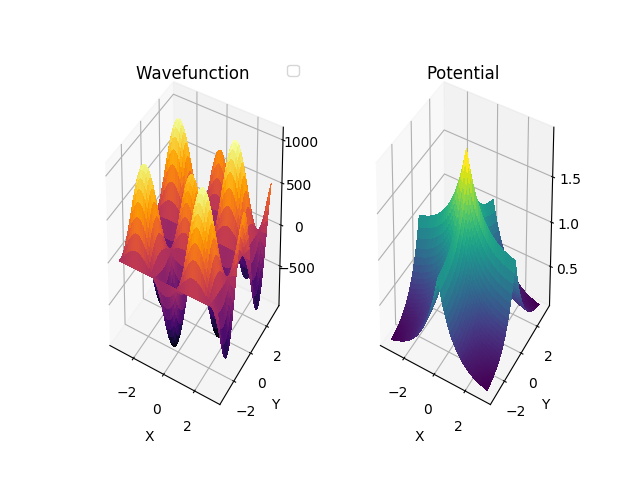
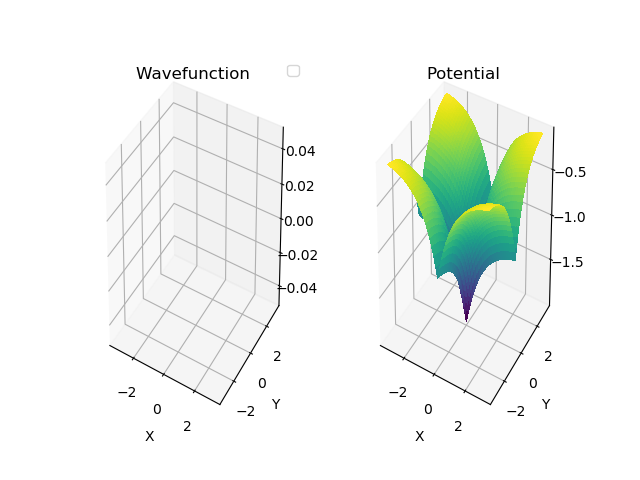
Uses matrix multiplication to solve SE

diff --git a/se.py b/se.py
@@ -9,7 +9,7 @@ h_b = 1
 m = 1
 
 class system():
-    def __init__(self, x, V, psi_0, psi_1, E):
+    def __init__(self, x, V, psi_0, psi_1, E, psi_n):
         '''
         x: array like- eveny sampled position array
         V: array like- potential array
@@ -22,14 +22,14 @@ class system():
         self.E, self.psi_0, self.psi_1 = map(np.float, (E, psi_0, psi_1))
         self.psi = np.array([self.psi_0, self.psi_1])
         self.h = self.x[1] - self.x[0]
-        
-<<<<<<< HEAD
+        self.psi_n = psi_n
+        self.eigen_e = np.array([])
+
     def func(self, V):    
         return 2*m/(h_b**2)*(V-np.ones(self.N)*self.E)
-=======
     def f(self, V):    
         return -2*m/(h_b**2)*(V-np.ones(self.N)*self.E)
->>>>>>> 2d792a8c779709eaacfef5b240db329870d5e941
+
     
     def numerov(self, k): #return k+1 step 
         y_1 = self.psi[-1]
@@ -44,57 +44,77 @@ class system():
         while(k<self.N-2):
             self.psi = np.append(self.psi, [self.numerov(k)], axis=-1)
             k+=1
-        self.psi = self.psi/np.trapz(self.psi**2, dx=self.h)
+        self.psi = self.psi
         return self.psi
 
+    def calc_eigen_e(self):
+        for E in (np.linspace(-self.E,self.E,500)):
+            self.E = E
+            psi_x = self.integrate()
+            if (abs(psi_x[-1])<0.05*self.psi_n): #10% of final wavefunction
+                self.eigen_e = np.append(self.eigen_e, E)
+        return self.eigen_e
 
 def main():
+    
+        #Calculating 
     x = np.linspace(-np.pi, np.pi, 1000)
     y = np.linspace(-np.pi, np.pi, 1000)
     
     def f_1(x):
-        v = np.exp(-np.absolute(x))
+        v = -np.exp(-np.absolute(x))
         return v
     
     def f_2(y):
-        v = np.exp(-np.absolute(y))
+        v = -np.exp(-np.absolute(y))
         return v
+    
+
         
     V_x = f_1(x)
     V_y = f_2(y)
     psi_0 = 0
-    psi_1 = 0.0001
-    E = -2
+    psi_1 = 0.001
+    E = 2
+    psi_n = 0.1
     
-    s_x = system(x, V_x, psi_0, psi_1, E/2)
-    psi_x = s_x.integrate()
-    s_y = system(y, V_y, psi_0, psi_1, E/2)
-    psi_y = s_y.integrate()
+    s_x = system(x, V_x, psi_0, psi_1, E, psi_n)
+    energy = s_x.calc_eigen_e()
     
-    psi = np.array([k*psi_y for k in psi_x])
-    V = np.array([k + V_y for k in V_x])
-    xx, yy = np.meshgrid(x,y)
+    for e in energy:
+        _ = system(x, V_x, psi_0, psi_1, e, psi_n)
+        y = _.integrate()
+        print(y[-1])
+        print(e)
+        plt.plot(x, y, label=e)
     
-    fig = plt.figure()
-    ax1 = ax1 = fig.add_subplot(121,projection='3d')
-    surf = ax1.plot_surface(xx, yy, psi, cmap=cm.inferno,
-                       linewidth=0, antialiased=False)
-    plt.title('Wavefunction')
-    plt.xlabel('X')
-    plt.ylabel('Y')
-    plt.legend()
+    # s_y = system(y, V_y, psi_0, psi_1, E/2, psi_n)
+    # psi_y = s_y.integrate()
+    
+    # psi = np.array([k*psi_y for k in psi_x])
+    # V = np.array([k + V_y for k in V_x])
+    # xx, yy = np.meshgrid(x,y)
+    
+    # fig = plt.figure()
+    # ax1 = ax1 = fig.add_subplot(121,projection='3d')
+    # surf = ax1.plot_surface(xx, yy, psi, cmap=cm.inferno,
+    #                    linewidth=0, antialiased=False)
+    # plt.title('Wavefunction')
+    # plt.xlabel('X')
+    # plt.ylabel('Y')
+    # plt.legend()
 
    
-    ax2 = ax1 = fig.add_subplot(122,projection='3d')
-    surf = ax2.plot_surface(xx, yy, V, cmap=cm.viridis,
-                       linewidth=0, antialiased=False)
-    plt.title('Potential')
-    plt.xlabel('X')
-    plt.ylabel('Y')   
+    # ax2 = ax1 = fig.add_subplot(122,projection='3d')
+    # surf = ax2.plot_surface(xx, yy, V, cmap=cm.viridis,
+    #                    linewidth=0, antialiased=False)
+    # plt.title('Potential')
+    # plt.xlabel('X')
+    # plt.ylabel('Y')   
     
-    plt.show()
-    plt.savefig('plots/'+ 'exponential potenials.png')
-
+    # plt.show()
+    # plt.savefig('plots/'+ 'exponential potenials.png')
+    
     return None
 
 if __name__ =="__main__":

diff --git a/coupled_Se.py b/coupled_Se.py
@@ -1,1 +1,60 @@
 import numpy as np
+from numpy import append
+import time
+import matplotlib.pyplot as plt
+
+def RK4(x_0, f_0, g, h):
+    k1 = h*g(x_0,f_0)
+    k2 = h*g(x_0 + h/2, f_0 + k1/2)
+    k3 = h*g(x_0 + h/2, f_0 + k2/2)
+    k4 = h*g(x_0 + h, f_0 + k3)
+
+    x_1 = x_0 + h
+    f_1 = f_0 + (1/6)*(k1 + 2*(k2 + k3) + k4) 
+    return x_1, f_1
+
+def integrate(x_0, x_f, y_0, g, h):  #f and g are fucntions, h is step size
+    (x,y) = *map(np.asarray, ([x_0], [y_0])),
+
+    while(x[-1]<x_f):
+        (a, b) = RK4(x[-1], y[-1], g, h)
+        x = append(x, a)
+        y = append(y, b)
+    return x,y
+    
+def inner_prod(x_0, x_f, f, g, h): 
+    
+    y_ = lambda x, _: np.conj(f(x))*g(x)
+    y_0 = y_(0, None) #y_ depends only of first para
+
+    (x, y) = integrate(x_0, x_f, y_0, y_, h)    
+    return y[-1]-y[0]
+    
+    
+#Set boundaries   
+x_0 = -np.pi
+x_f = np.pi
+y_0 = 0
+h_bar = 1
+
+#Create basis functions
+e = [lambda x: np.exp(1j*k*x) for k in range(5)]
+
+#Initialize Hamiltonian matrix
+H_mat = np.empty((len(e),len(e)),dtype=complex)
+
+#Set kinetic and potential energy functions, find hamiltonian
+T = lambda k: -h_bar*1j*k**2 #Is like the derivative on exp basis
+U = lambda x: 0
+H = lambda x: T(x) + U(x)
+
+ket = [lambda x: H(x)*e[i](x) for i in range(len(e))]  #Function on the right side
+bra = e
+
+for i in range(len(H_mat[:,0])):
+    for j in range(len(H_mat[0,:])):
+        H_mat[i,j] = inner_prod(x_0, x_f, bra[i], ket[j], h=0.01)
+
+print(H_mat)
+
+

diff --git a/time_dep_se.py b/time_dep_se.py
@@ -1,1 +1,32 @@
 import numpy as np
+from se import psi, V, xx, yy
+import matplotlib.pyplot as plt
+from mpl_toolkits.mplot3d import Axes3D 
+import matplotlib.animation as animation
+import matplotlib
+
+
+fps = 10 # frame per sec
+frn = 50 # frame number of the animation
+zarray = np.zeros((np.shape(psi)[0], np.shape(psi)[1], frn))
+
+f = lambda u, t: np.cos(V*t)*u
+
+for i in range(frn):
+    zarray[:,:,i] = f(psi,i/100)
+    
+def update_plot(frame_number, zarray, plot):
+    plot[0].remove()
+    plot[0] = ax.plot_surface(xx, yy, zarray[:,:,frame_number], cmap="magma")
+
+fig = plt.figure()
+ax = fig.add_subplot(111, projection='3d')
+
+plot = [ax.plot_surface(xx, yy, zarray[:,:,0], color='0.75', rstride=1, cstride=1)]
+ax.set_zlim(0,1.1)
+ani = animation.FuncAnimation(fig, update_plot, frn, fargs=(zarray, plot), interval=1000/fps)
+
+fn = 'plot_surface_animation_funcanimation'
+ani.save(fn+'.mp4',writer='ffmpeg',fps=fps)
+ani.save(fn+'.gif',writer='imagemagick',fps=fps)
+
